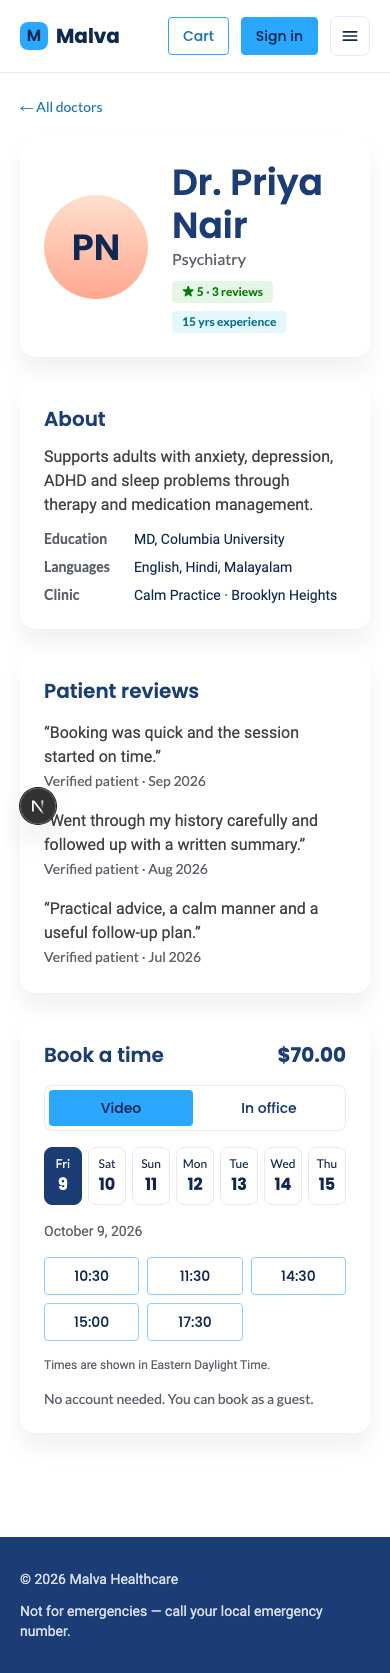
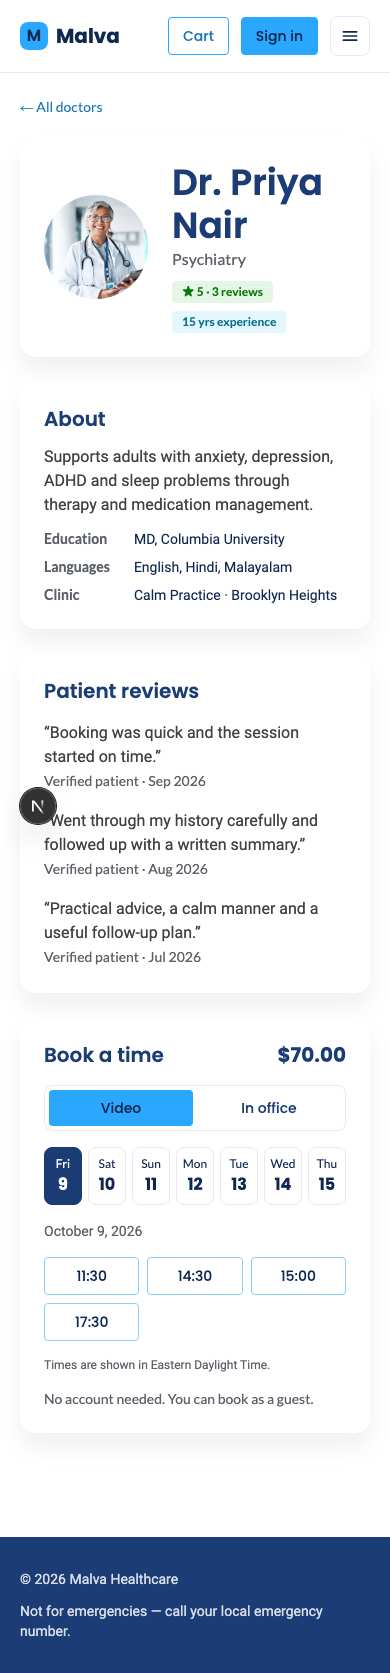
plan: follow-ups AA-AC merged; owner decisions recorded

diff --git a/b2c-healthcare/plans/FOLLOWUPS.md b/b2c-healthcare/plans/FOLLOWUPS.md
@@ -4,8 +4,8 @@ These extend the A–Z plan. They are tracked here (not in `verify-plan.mjs`, wh
 
 | ID | Scope | Decisions | Depends on | Status |
 | --- | --- | --- | --- | --- |
-| AA | Rework checkout/orders around the **full commercetools Checkout** (Checkout creates the order; idempotent post-order finalization; payment lifecycle via Checkout) | D-034, D-035 | Q, S, T, U | In progress |
-| AB | **Medicine PDP** `/medicine/<key>` and links from search/lists/home | D-037 | K, N, O, W | In progress |
-| AC | Seed + images + scopes: `clinicName` searchable, `seed:full` full cleanup, scope list per D-036, Pexels-only images generated and committed (clean URLs), all image slots used | D-036, D-038, D-039, D-040 | E, F, M, V | In progress |
+| AA | Rework checkout/orders around the **full commercetools Checkout** (Checkout creates the order; idempotent post-order finalization; payment lifecycle via Checkout) | D-034, D-035 | Q, S, T, U | Ready for review (live checks pending) |
+| AB | **Medicine PDP** `/medicine/<key>` and links from search/lists/home | D-037 | K, N, O, W | Ready for review (live checks pending) |
+| AC | Seed + images + scopes: `clinicName` searchable, `seed:full` full cleanup, scope list per D-036, Pexels-only images generated and committed (clean URLs), all image slots used | D-036, D-038, D-039, D-040 | E, F, M, V | Ready for review (live checks pending) |
 
 Notes per follow-up: `plans/notes/AA-*.md`, `AB-*.md`, `AC-*.md` (questions, todos, missed).

diff --git a/b2c-healthcare/plans/QUESTIONS-RAISED.md b/b2c-healthcare/plans/QUESTIONS-RAISED.md
@@ -473,3 +473,8 @@ Every entry here has `Needs owner: no`. "Live" means the only open part is a ver
 
 ## Owner answers (2026-10-09)
 QR-001: full commercetools Checkout connected to the PSP (D-034). QR-002: Checkout handles the payment lifecycle (D-035; the message was cut off, interpretation recorded). QR-004: B2C storefront scopes + recurring policies and prices + key_value_documents (D-036). QR-013: build the medicine PDP (D-037). QR-014: full cleanup with a full seeding (D-038). QR-017: make `clinicName` searchable (D-039). QR-027: all images from Pexels, no credits (D-040). All unanswered items: the default (D-041).
+
+## Follow-up AA-AC results (2026-10-09) — needs your decision
+- **Image licence (AC):** the public Pexels search endpoint returns iStock partner thumbnails (`media.istockphoto.com`), not Pexels-licensed photos. All 62 committed images come from there. For true Pexels images: get a free Pexels API key, run `PEXELS_API_KEY=... npm run seed:images:json`, commit the result.
+- **AA-L4 (biggest risk):** does Checkout charge only the card remainder when allowance/health-account Payments are on the cart? See `notes/AA-todos.md`.
+- Details: `notes/AA-*.md`, `AB-*.md`, `AC-*.md`.
